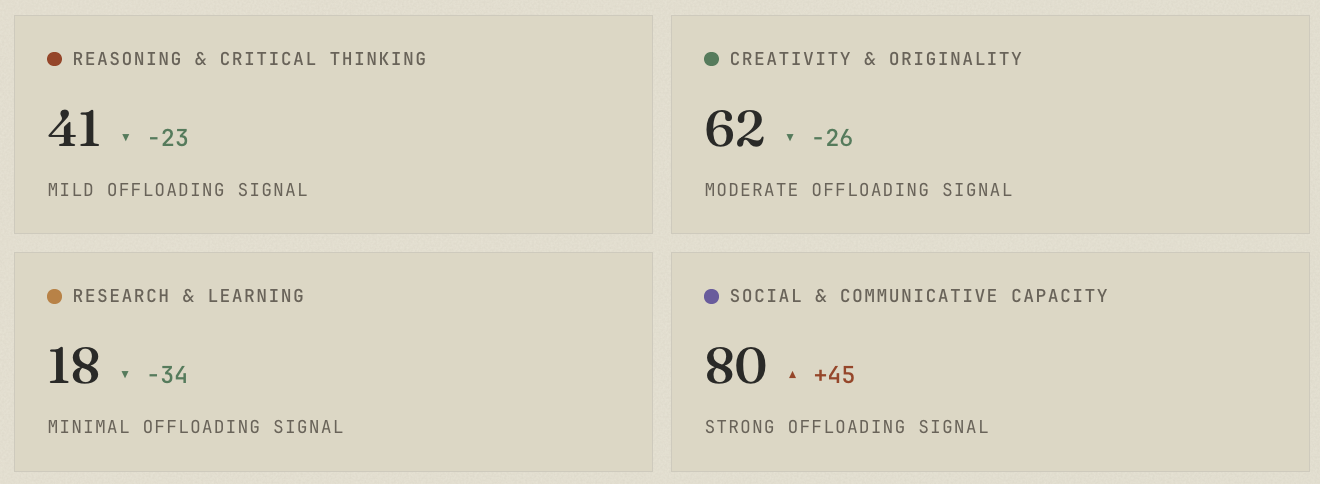
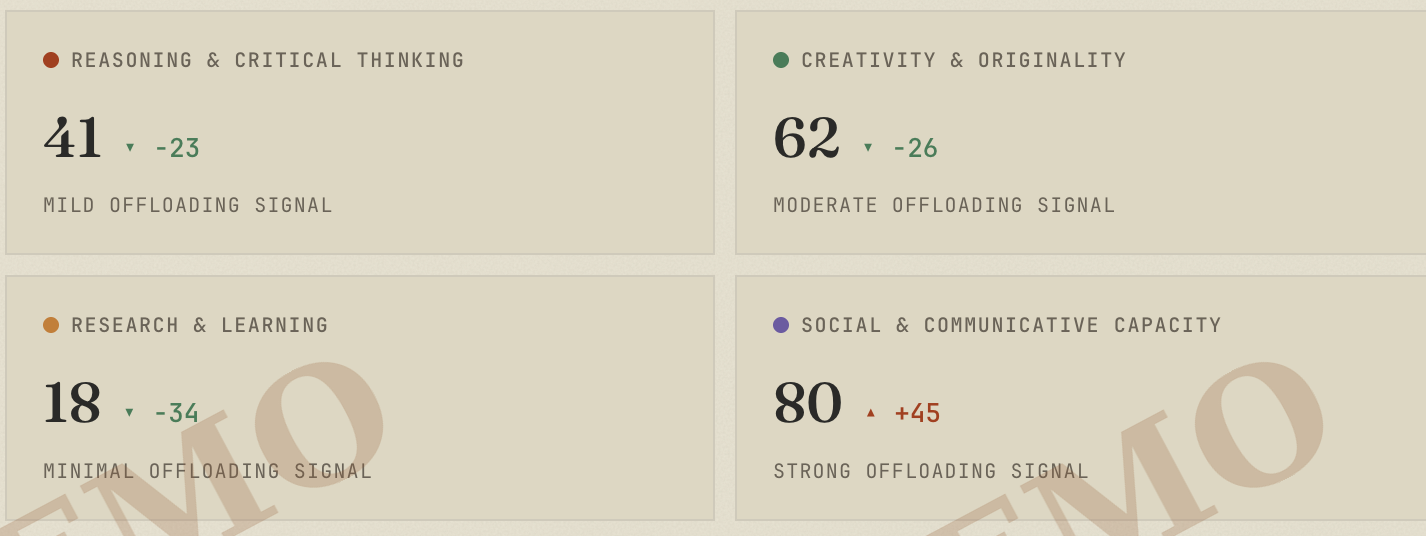
AI definition and demo image change

diff --git a/data/content/paper.md b/data/content/paper.md
@@ -6,7 +6,9 @@ SciLifeLab Data Centre, Uppsala University, Sweden\
 
 **PAUSE** (**P**atterns of **A**I **U**se: **S**elf-**E**xamination) is a public self-reflection tool for AI usage patterns.
 
-**Live tool:** <https://anondo1969.github.io/pause> · **Source code:** <https://github.com/anondo1969/pause>
+**Live tool:** <https://anondo1969.github.io/pause>
+
+**Source code:** <https://github.com/anondo1969/pause>
 
 ## Abstract
 
@@ -46,7 +48,7 @@ In summary, PAUSE is designed to make a person briefly stop using software, atte
 
 Throughout this paper, “AI” refers to consumer-facing generative artificial intelligence built on large language models (LLMs): chat assistants such as ChatGPT, Claude, Gemini, and Copilot, their API (Application Programming Interface)-accessible models, and the smart-reply, autocomplete, and summarisation features built on top of them. This is the class of tool whose cognitive consequences the 2023–2026 literature documents, and it is the class the items ask the respondent to introspect about. The terms “AI”, “LLM”, “GenAI”, “chatbot”, and “AI tool” are used interchangeably below.
 
-The self-check does not cover classical recommender systems, pre-LLM predictive features such as spam filters, or embodied and task-specific AI. I scope it this way for an empirical reason. The studies anchoring the four domains (Section 3.1) concern LLM-class tools used in cognitive tasks, and PAUSE inherits that scope. The respondent-facing wording uses “AI” for accessibility, and the landing page and the “About this tool” panel spell out the scope for anyone who wants the specifics.
+The self-check does not cover classical recommender systems, pre-LLM predictive features such as spam filters, or embodied and task-specific AI. I scope it this way for an empirical reason. The studies anchoring the four domains (Section 3.1) concern LLM-class tools used in cognitive tasks, and PAUSE inherits that scope. The respondent-facing wording uses “AI” for accessibility, and the landing page spells out the scope for anyone who wants the specifics.
 
 ### 1.2 Contributions
 
@@ -54,9 +56,9 @@ I make three contributions in this paper:
 
 1.  A four-domain mapping from the 2023–2026 empirical literature on LLM-associated cognitive effects to a self-reflection structure, with item-level citations (Appendix A).
 
-2.  A public, citation-grounded set of reflective items, reverse-scored to counter agreement bias, paired with two short behavioural probes (a claim-evaluation reasoning probe and an Alternative Uses creativity probe) and a non-scored retrospective before-and-after block.
+2.  A public, citation-grounded set of reflective items, reverse-scored to counter agreement bias, paired with two short behavioural probes (a claim-evaluation reasoning probe and an Alternative Uses creativity probe) and a non-scored retrospective before-and-after block (Appendix A and Appendix B).
 
-3.  A privacy-by-design, no-backend reference web application that performs all scoring client-side, collects and transmits nothing, and involves no LLM in production; deployable as a static site or self-hosted.
+3.  A privacy-by-design, no-backend reference web application that performs all scoring client-side, collects and transmits nothing, and involves no LLM in production; deployable as a static site or self-hosted (**link:** [anondo1969.github.io/pause](https://anondo1969.github.io/pause)).
 
 ## 2. Related Work
 
@@ -136,7 +138,7 @@ For each domain d ∈ {D1, D2, D3, D4}:
 
 - Each domain reading is mapped to one of four descriptive bands for display: *Minimal offloading signal* (0 to 24), *Mild* (25 to 49), *Moderate* (50 to 74), and *Strong offloading signal* (75 to 100). These are fixed, quarter-width cut points on the 0 to 100 scale, chosen for legibility rather than derived from a norming sample, and they carry no diagnostic meaning.
 
-**There is no overall composite.** A single number across four domains of unequal weight and uneven character would compress more than it reveals, on the jagged-frontier grounds above, so the tool neither computes nor shows one. The four domains are reported separately.
+**There is no overall composite.** A single number across four domains of unequal weight and uneven character would compress more than it reveals, on the jagged-frontier grounds above (Dell’Acqua et al. (2023)), so the tool neither computes nor shows one. The four domains are reported separately.
 
 ### 3.4 Domain branching
 
@@ -186,11 +188,11 @@ The self-check works on mobile and desktop browsers, with keyboard navigation, s
 
 I frame PAUSE throughout as a tool for self-reflection rather than a measurement instrument. A persistent banner states that it is not validated, that a reading need not reflect any stable underlying trait, and that its readings should not drive real-world decisions. In keeping with this, the four band labels (*Minimal*, *Mild*, *Moderate*, and *Strong offloading signal*) are marked as descriptive rather than normed (defined in Section 3.3).
 
-The result page avoids clinical language: no respondent is described as “impaired” or “at risk”. Its header names the reading in neutral terms of AI-use patterns, and I keep the project name out of the reading area, placing it only in the footer and the “About this tool” panel. A high reading is neither a verdict nor a reason to stop using AI tools, and a low reading is no kind of clearance: each reports only the match between recent self-reported behaviour and a pattern the literature associates with offloading. My aim is conscious, structured engagement, not abstinence.
+The result page avoids clinical language: no respondent is described as “impaired” or “at risk”. Its header names the reading in neutral terms of AI-use patterns. A high reading is neither a verdict nor a reason to stop using AI tools, and a low reading is no kind of clearance: each reports only the match between recent self-reported behaviour and a pattern the literature associates with offloading. My aim is conscious, structured engagement, not abstinence.
 
 I present the domain-aware recommendations as practices to consider, drawn from the counter-design literature (Section 2.3), not as prescriptions, treatment advice, or claims tested on the individual respondent. A reading is for that respondent’s own reflection and must not justify any consequential decision about them or anyone else, whether hiring, admissions, performance evaluation, or clinical or educational assessment.
 
-PAUSE is not designed for minors. A soft, non-blocking age check precedes the self-check (Section 4); a negative response explains that the tool is not intended for those under 18 and invites the respondent to return when they are. Because the design is privacy-preserving, I deliberately avoid a hard age gate that would require identity verification. Nothing a respondent enters is collected, transmitted, or stored beyond the session, so the attestation is retained nowhere and no respondent’s identity is captured at any point.
+PAUSE is not designed for minors. A soft, non-blocking age check precedes the self-check; a negative response explains that the tool is not intended for those under 18 and invites the respondent to return when they are. Because the design is privacy-preserving, I deliberately avoid a hard age gate that would require identity verification. Nothing a respondent enters is collected, transmitted, or stored beyond the session, so the attestation is retained nowhere and no respondent’s identity is captured at any point.
 
 ## 5. Worked example: a single result and a six-month comparison
 
@@ -211,7 +213,7 @@ A creative professional (a freelance writer) selects *Creative professional*, re
 | B7 (probe)                          | Identifies a non-central flaw            |      —       |   2   |
 | Total across the seven scored items |                                          |              |  20   |
 
-**Table 1:** Worked D1 (Reasoning & Critical Thinking) scoring for the illustrative respondent of Section 5. The three reverse-scored items (B1, B3, B6) are shown *after* flipping, so a higher coded value always indicates more self-reported offloading. The seven-item total of 20 gives a mean of 20/7 = 2.86, which scales to a domain reading of 71, a *Moderate offloading signal* under the fixed bands of Section 3.3.
+**Table 1:** Worked D1 (*Reasoning & Critical Thinking*) scoring for the illustrative respondent of Section 5. The three reverse-scored items (B1, B3, B6) are shown *after* flipping, so a higher coded value always indicates more self-reported offloading. The seven-item total of 20 gives a mean of 20/7 = 2.86, which scales to a domain reading of 71, a *Moderate offloading signal* under the fixed bands of Section 3.3.
 
 The mean is 20/7 = 2.86, scaled to **71** on 0–100: a *Moderate offloading signal* (Section 3.3). Their full result is *Reasoning & Critical Thinking* 71, *Creativity & Originality* 93, *Research & Learning* 71, *Social & Communicative Capacity* 75, that is, *Moderate*, *Strong*, *Moderate*, and *Strong offloading signal*. Each domain appears as a labelled bar with one practice:
 
@@ -240,7 +242,7 @@ A short profile-aware summary sits above the bars:
 
 Comparison over time uses the return token (Section 4.2): the respondent copies a short opaque string at each session and keeps it; pasting several back reconstructs the trajectory entirely in the browser, and PAUSE stores nothing between visits. The tool ships with a synthetic demo trajectory of six monthly sessions (February to July), summarised in Table 2.
 
-Figure 3a shows the trajectory chart and Figure 3b the per-domain delta cards, as the respondent sees them; the narrated analysis panel that follows is provided in Section 5.2.1.
+Figure 3a shows the trajectory chart and Figure 3b the per-domain delta cards, as the respondent sees them; the narrated analysis panel that follows is provided in Figure 4.
 
 ![Figure 3a](media/compare-chart.png)
 
@@ -252,17 +254,9 @@ Figure 3a shows the trajectory chart and Figure 3b the per-domain delta cards, a
 
 **Figure 3:** The Compare view rendering the synthetic six-month demo trajectory of Table 2, shown top to bottom as the respondent sees it. Everything in all these panels is computed in the browser from the pasted return tokens alone; no token is transmitted, stored, or linked to any identity.
 
-#### 5.2.1 The narrated analysis
+![Figure 4](media/compare-narrated-analysis.png)
 
-The trajectory panel narrates each change in the same neutral register:
-
-- IMPROVING *Reasoning & Critical Thinking* dropped 23 points, from moderate to mild offloading. Whatever you changed in this area appears to be working. Stay with it.
-
-- IMPROVING *Creativity & Originality* dropped 26 points, from strong to moderate offloading. Whatever you changed in this area appears to be working. Stay with it.
-
-- IMPROVING *Research & Learning* dropped 34 points, from moderate to minimal offloading. Whatever you changed in this area appears to be working. Stay with it.
-
-- NEEDS ATTENTION *Social & Communicative Capacity* climbed 45 points, from mild to strong offloading. This is the area most worth pausing on. Consider revisiting the practice recommendation from your most recent result.
+**Figure 4:** The trajectory panel narrates each change in the same neutral register.
 
 ## 6. Discussion
 
@@ -302,13 +296,13 @@ I designed PAUSE to make visible what the 2023–2026 empirical literature has b
 
 The design reflects three deliberate choices. First, epistemic humility. Readings describe self-reported offloading patterns, there is no overall composite, and nothing is diagnosed. Second, transparency. Every item is anchored to a specific empirical finding, and the full item set and scoring code are open from launch. Third, privacy by design. The tool records none of the respondent’s answers, sends nothing to a server, and runs no LLM in production.
 
-The limits matter as much as the features, and they sit on the result page itself: the tool is a reflection aid, its probes are simple, some of its anchors are preprints, and its four domains are a working organisation. If PAUSE serves its purpose, people will take it briefly and periodically, notice their patterns, and choose differently where they want to. It is my attempt at public, citation-grounded, privacy-preserving self-reflection for one of the defining cognitive shifts of this decade.
+The limits matter as much as the features: the tool is a reflection aid, its probes are simple, some of its anchors are preprints, and its four domains are a working organisation. If PAUSE serves its purpose, people will take it briefly and periodically, notice their patterns, and choose differently where they want to. It is my attempt at public, citation-grounded, privacy-preserving self-reflection for one of the defining cognitive shifts of this decade.
 
 ## 8. Availability
 
 - **Source code:** [github.com/anondo1969/pause](https://github.com/anondo1969/pause) (MIT licence)
 
-- **Self-check items and scoring:** released as Appendix A of this paper and as a standalone CC-BY 4.0 document
+- **Self-check items and scoring:** released as Appendix A and Appendix B of this paper and as a standalone CC-BY 4.0 document
 
 - **Live tool:** [anondo1969.github.io/pause](https://anondo1969.github.io/pause) (GitHub Pages), no login required, no data collected
 
@@ -320,7 +314,7 @@ The scoring module, the AUT category dictionary, the B7 pool, and the feedback l
 
 All items have a “Not applicable” option in addition to the response scale shown. For the Likert items this is a checkbox; for the two timed probes (B7, C7) it takes the form of an explicit skip control, and a B7 timer that expires without an answer is likewise scored as not applicable (Section 3.5). Each behavioural item is anchored to a study that motivated its design; anchors are supporting evidence for an item’s framing, not validation of it.
 
-*Sections A, BL, B, C, D, and E correspond to entries in the deployed `items.json` (the questionnaire flow). The age check (H) is implemented as a pre-self-check modal (Section 4).*
+*Sections A, BL, B, C, D, and E correspond to entries in the deployed `items.json` (the questionnaire flow). The age check (H) is implemented as a pre-self-check modal.*
 
 ### Section A: Context (not part of the reading)
 

diff --git a/README.md b/README.md
@@ -88,6 +88,7 @@ Long-form documents (the essay, the paper, the privacy explainer) are Markdown f
 │   ├── smoke.js                    Boots all pages in a simulated browser
 │   ├── smoke_full_quiz.js          Drives the self-check end to end
 │   ├── smoke_hash.js               Token-via-URL comparison flow
+│   ├── package.json                Script description
 │   └── README.md                   How to run everything
 │
 └── data/